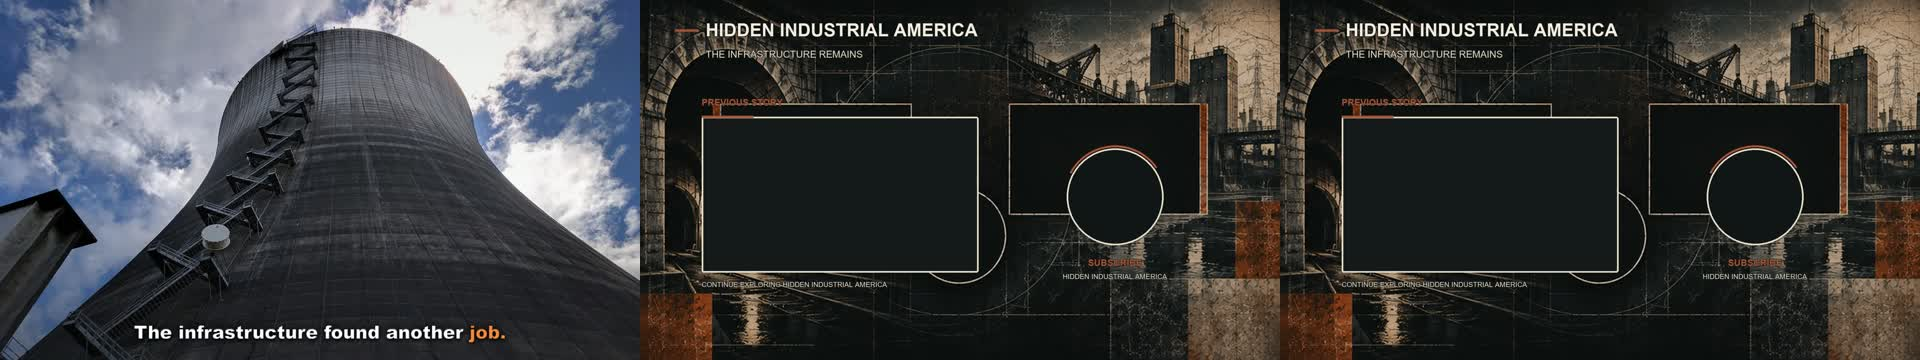
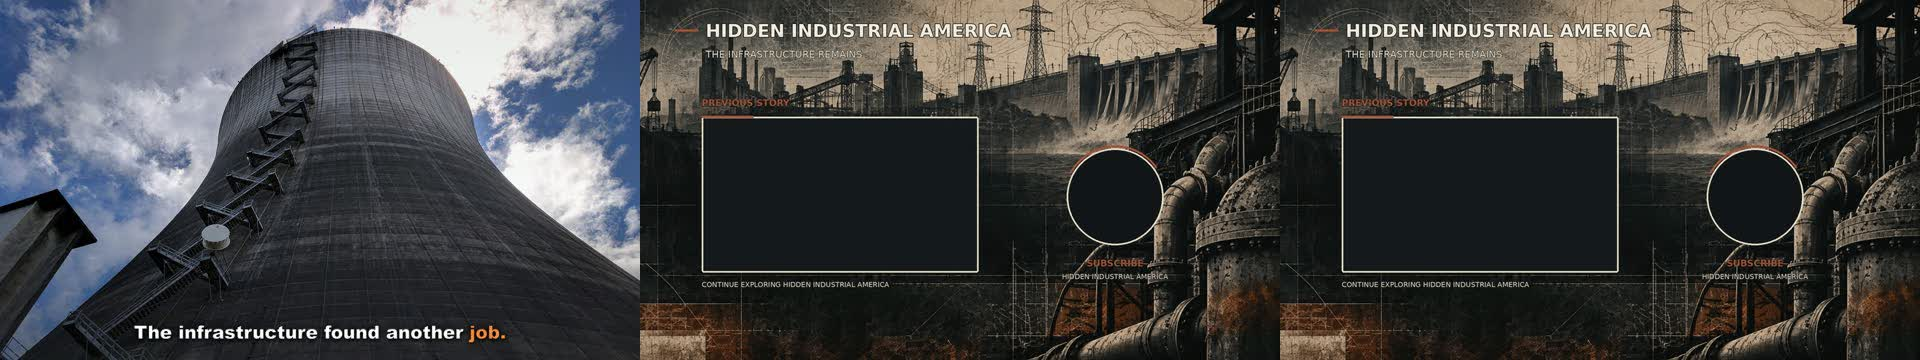
Fix overlapping Satsop HIA end screen layout

diff --git a/SATSOP/REMOTION_V1/REVIEW_QC/MOTION_REVIEW_V3_HIA_END_QC.md b/SATSOP/REMOTION_V1/REVIEW_QC/MOTION_REVIEW_V3_HIA_END_QC.md
@@ -12,11 +12,13 @@ Status: **REVIEW CUT — TECHNICAL PASS**
 - End-screen audio: digital silence
 - Music: none
 - Duration: 1,183.989333 seconds
-- Size: 926,727,142 bytes
+- Layout: one previous-story rectangle and one subscribe circle; no duplicated or overlapping placeholders
+- Source: approved flattened HIA end screen from `CHICAGO/V12/FINAL_QC/END_SCREEN_FINAL_PREVIEW.jpg`, scaled 2x to 1920x1080
+- Size: 926,935,818 bytes
 - Video: H.264, 1920x1080, 30 fps, 35,518 frames
 - Audio: AAC, 48 kHz stereo
 - Full decode: PASS
[2 lines of base64/hex data omitted]
 - Visual seam check: PASS (`V3_OUTRO_CONTACT_SHEET.jpg`)
 
 Picture lock remains open until user review.

diff --git a/SATSOP/CURRENT_STATUS_HANDOFF.md b/SATSOP/CURRENT_STATUS_HANDOFF.md
@@ -355,6 +355,8 @@ Canonical files:
 - duration: **00:19:43.989**;
 - video: **35,518 frames, 1920x1080, 30 fps, H.264**;
 - audio: **AAC, 48 kHz stereo**;
-- size: **926,727,142 bytes**;
[1 lines of base64/hex data omitted]
+- end-screen layout correction: the erroneous double-overlay build was replaced with the approved flattened HIA end screen from `CHICAGO/V12/FINAL_QC`;
+- layout QC: **PASS — one previous-story rectangle, one subscribe circle, no overlap**;
+- size: **926,935,818 bytes**;
[1 lines of base64/hex data omitted]
 - current gate: user directorial review of V3; picture lock remains open.
